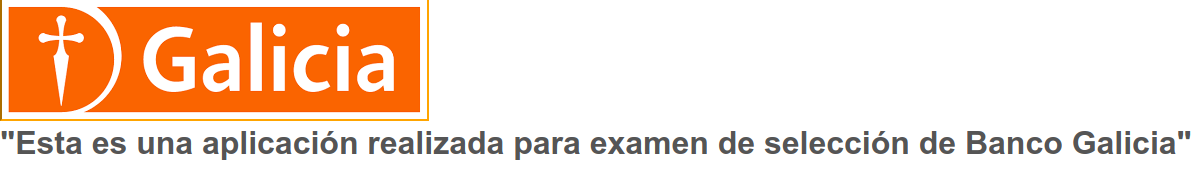
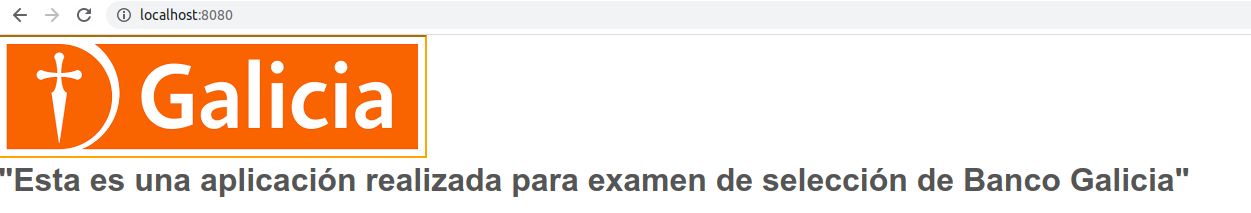
update coments

Changed region(s): [[0.0, 0.0292, 1.0, 0.9357]]

diff --git a/README.md b/README.md
@@ -5,6 +5,7 @@ Demo App
 **********************************************************************
                      BUILD AND RUN ON DOCKER
 **********************************************************************
+git clone -b master https://github.com/alemiller08/helloworld.git
 
 docker image build -t helloworld:1.0 .
 
@@ -61,9 +62,17 @@ $ s2i build --ref=develop https://github.com/alemiller08/helloworld centos/nginx
 ---> Copying nginx start-hook scripts...
 Build completed successfully
 
+
+$ docker run --rm -it -p 8080:8080 helloworld
+
 So now is running on localhost:8080
+
+![hello_world](./screenshot.png)
+
+For verify the images:
 
 $ docker images
 REPOSITORY                 TAG       IMAGE ID       CREATED         SIZE
 helloworld                 latest    4341dbedfbcd   7 seconds ago   324MB
 centos/nginx-112-centos7   latest    23b35619aecd   15 months ago   324MB
+
